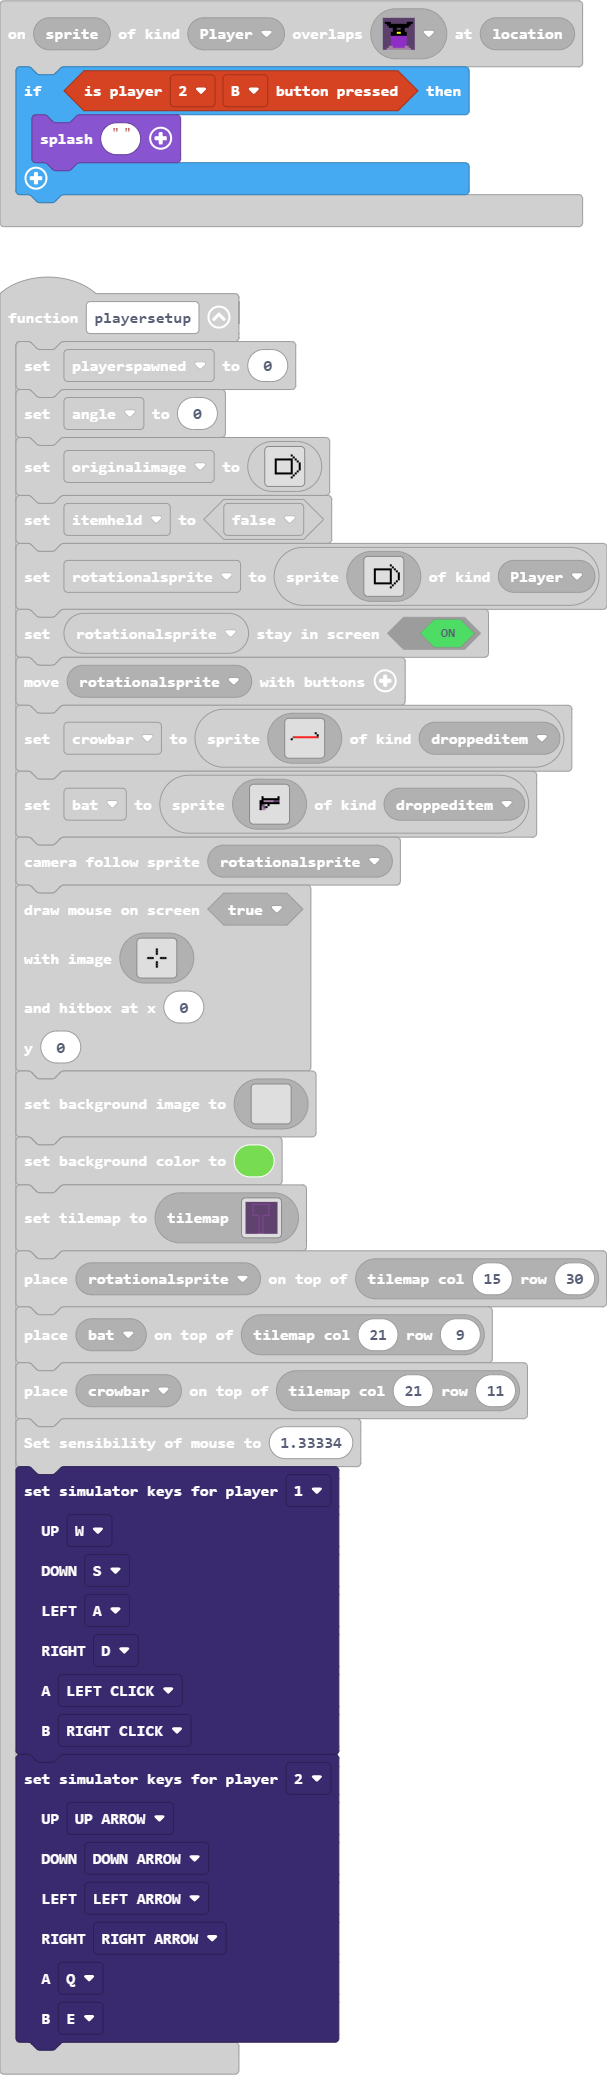
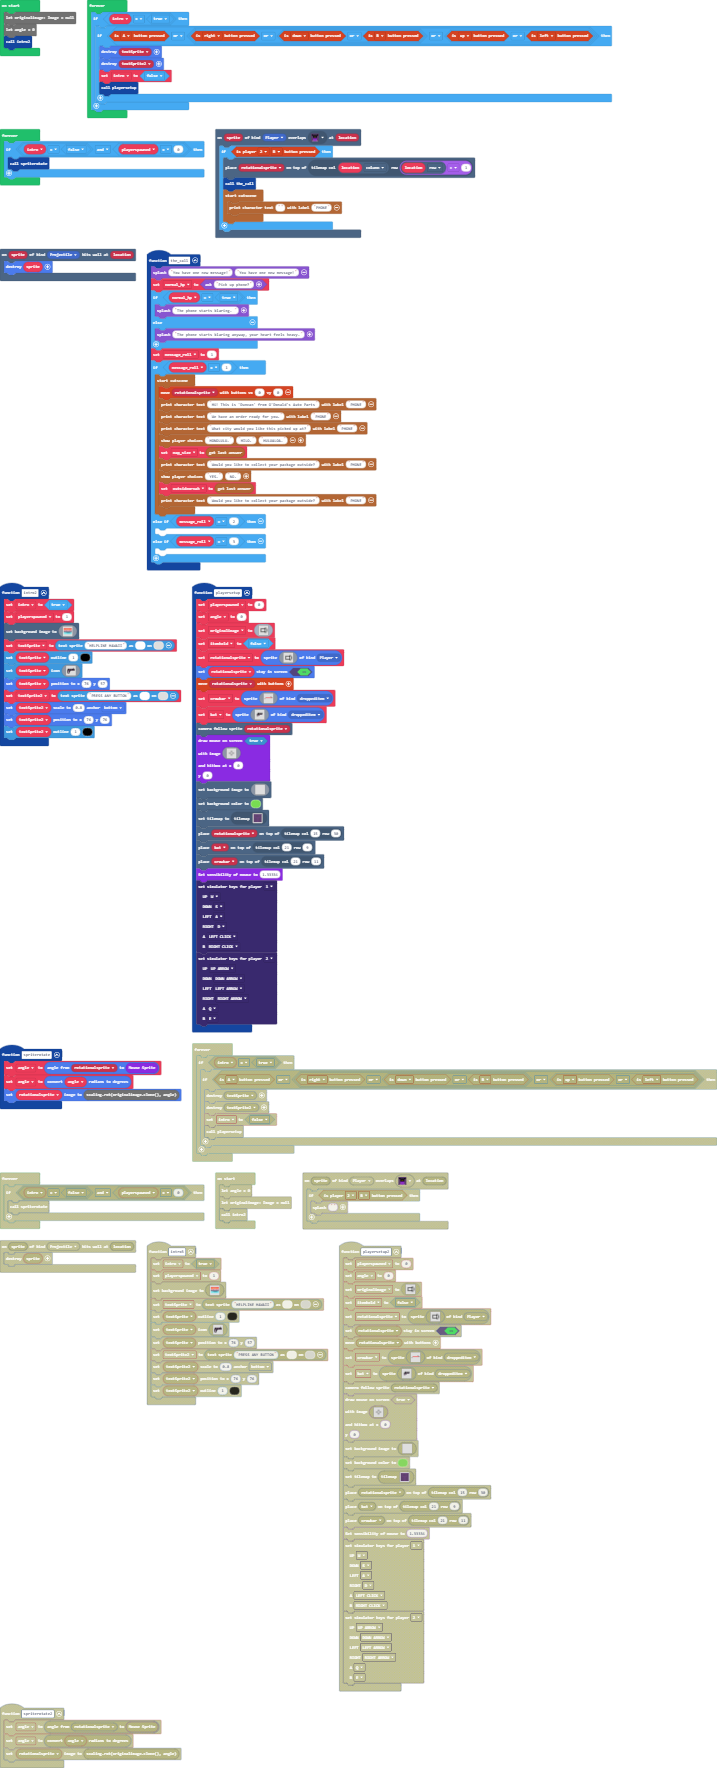
MOST MODERN PLEASE WORK

diff --git a/main.ts b/main.ts
@@ -3,7 +3,11 @@ namespace SpriteKind {
 }
 scene.onOverlapTile(SpriteKind.Player, assets.tile`myTile0`, function (sprite, location) {
     if (controller.player2.isPressed(ControllerButton.B)) {
-        game.splash("")
+        tiles.placeOnTile(rotationalsprite, tiles.getTileLocation(location.column, location.row + 1))
+        the_call()
+        story.startCutscene(function () {
+            story.printCharacterText("", "PHONE")
+        })
     }
 })
 sprites.onOverlap(SpriteKind.Player, SpriteKind.droppeditem, function (sprite, otherSprite) {
@@ -30,6 +34,34 @@ function spriterotate () {
     angle = spriteutils.angleFrom(rotationalsprite, Mouse.mouseSprite())
     angle = spriteutils.radiansToDegrees(angle)
     rotationalsprite.setImage(scaling.rot(originalimage.clone(), angle))
+}
+function the_call () {
+    game.splash("You have one new message!", "You have one new message!")
+    normal_hp = game.ask("Pick up phone?")
+    if (normal_hp == true) {
+        game.splash("The phone starts blaring. ")
+    } else {
+        game.splash("The phone starts blaring anyway, your heart feels heavy.")
+    }
+    message_roll = 1
+    if (message_roll == 1) {
+        story.startCutscene(function () {
+            controller.moveSprite(rotationalsprite, 0, 0)
+            story.printCharacterText("Hi! This is 'Dunvan' from O'Donald's Auto Parts", "PHONE")
+            story.printCharacterText("We have an order ready for you.", "PHONE")
+            story.printCharacterText("What city would you like this picked up at?", "PHONE")
+            story.showPlayerChoices("HONOLULU.", "HILO.", "HULUALOA.")
+            map_size = story.getLastAnswer()
+            story.printCharacterText("Would you like to collect your package outside?", "PHONE")
+            story.showPlayerChoices("YES.", "NO.")
+            outsideornah = story.getLastAnswer()
+            story.printCharacterText("Would you like to collect your package outside?", "PHONE")
+        })
+    } else if (message_roll == 2) {
+    	
+    } else if (message_roll == 3) {
+    	
+    }
 }
 scene.onHitWall(SpriteKind.Projectile, function (sprite, location) {
     sprites.destroy(sprite)
@@ -101,14 +133,18 @@ let bat: Sprite = null
 let crowbar: Sprite = null
 let textSprite2: TextSprite = null
 let textSprite: TextSprite = null
-let rotationalsprite: Sprite = null
+let outsideornah = ""
+let map_size = ""
+let message_roll = 0
+let normal_hp = false
 let projectile: Sprite = null
 let helditemsprite: Image = null
 let itemheld = false
 let playerspawned = 0
 let intro = false
-let angle = 0
+let rotationalsprite: Sprite = null
 let originalimage: Image = null
+let angle = 0
 intro2()
 forever(function () {
     if (intro == true) {
